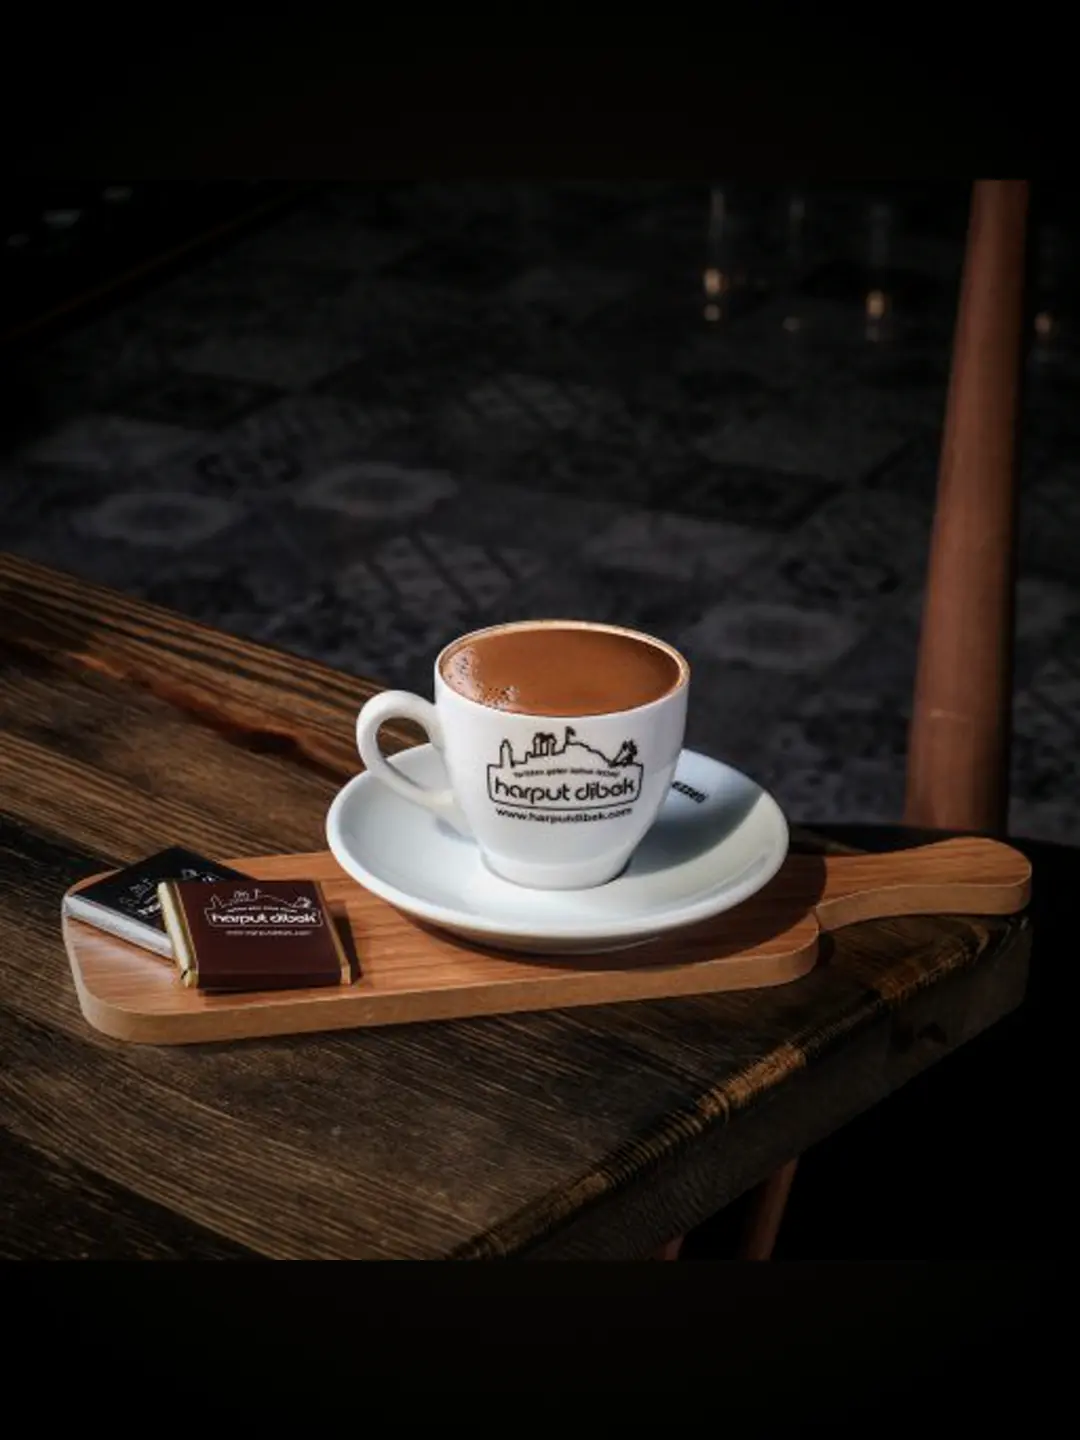
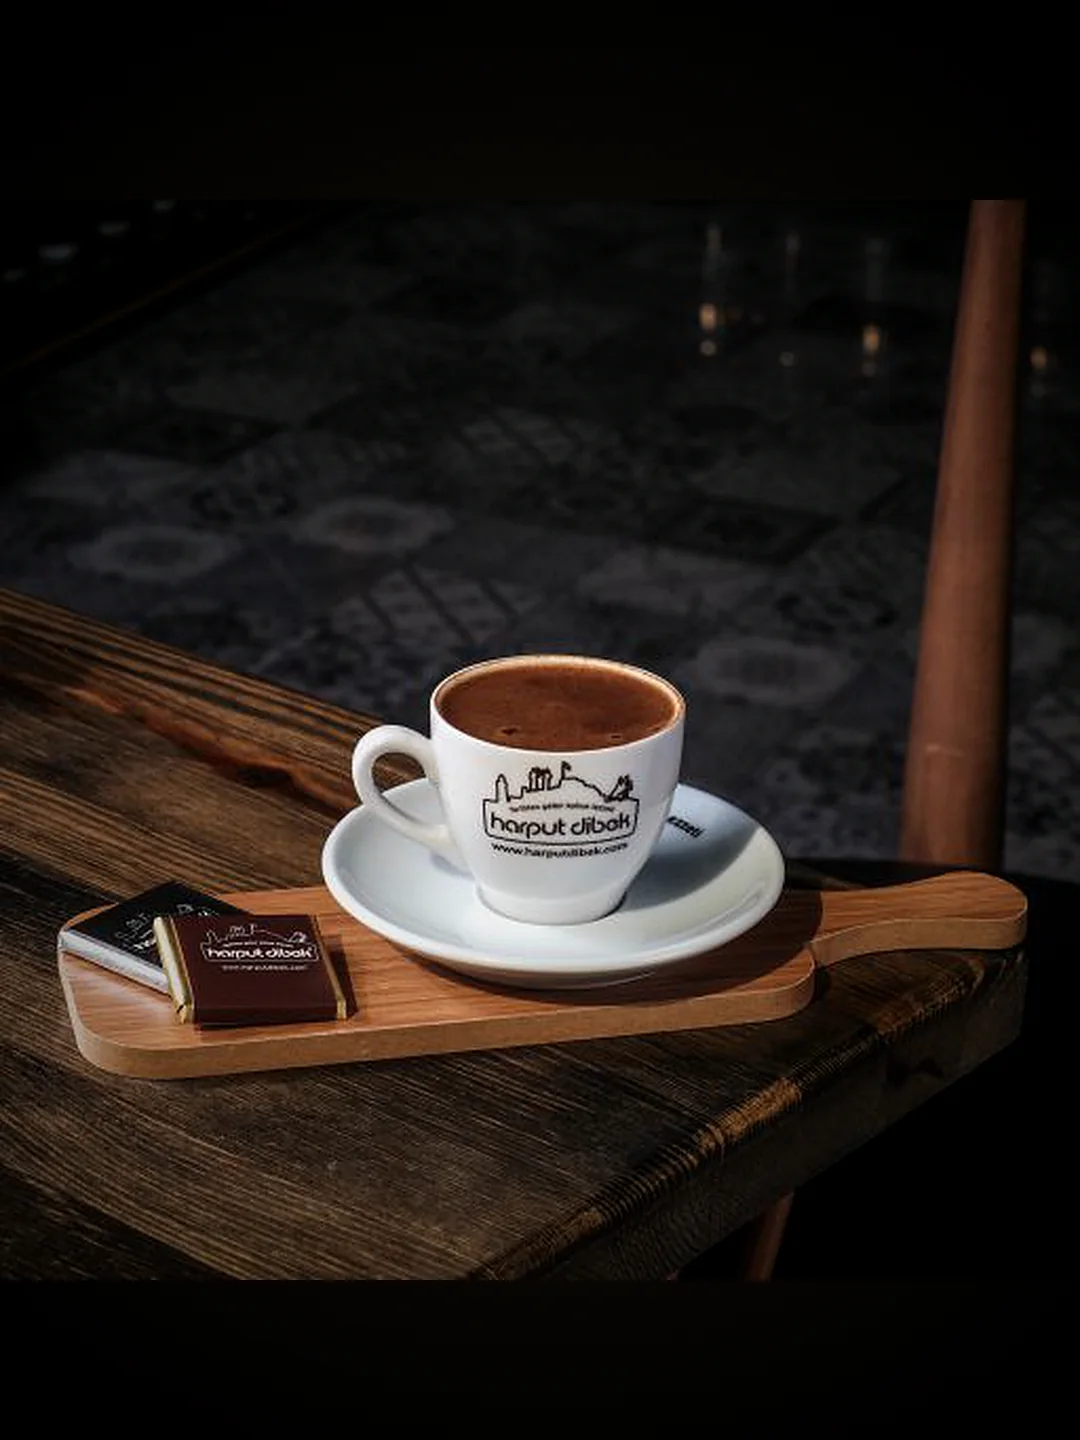
Gorsel kalitesi, acilis suresi ve Pages yayini
Gorseller:
- hero ve panel-3 artik markanin kendi fotograflarindan kompoze
  (lanczos + netlestirme); onceki hero 1024x683'ten 2x buyutulmustu
- panel-1/panel-2 ayni kaynaklardan q=58 yerine q=80/72 ile yeniden
  kodlandi; bulanikligin sebebi cozunurluk degil asiri sikistirmaydi
- galeri 800x800 yerine kaynak cozunurlugunde (512) uretiliyor

Acilis:
- sure 1120ms -> 2200ms (cok hizli geciyordu)
- brand.intro.replayEveryLoad ile her yuklemede oynuyor

Yayin:
- GitHub Pages is akisi (test + derleme + SPA geri donusu)
- router artik taban yola duyarli (import.meta.env.BASE_URL)

diff --git a/ucuncu-fincan/src/components/Intro.tsx b/ucuncu-fincan/src/components/Intro.tsx
@@ -1,24 +1,34 @@
 // Açılış perdesi: koyu zemine yukarıdan kahve dökülür, akıntı ekranı basar
 // ve perde kalkarak siteyi açar.
 //
-// Toplam süre 1120 ms (kabul kriteri: 1,2 sn'yi geçmemeli).
-// Tüm hareketler yalnızca transform ve opacity ile yapılır.
+// Toplam süre 2200 ms. Tüm hareketler yalnızca transform ve opacity ile yapılır.
+//
+// Not: ilk sürümde açılış 1,2 sn ile sınırlıydı ve oturumda bir kez oynuyordu.
+// Satış demosunda çok hızlı geçtiği ve her açılışta görünmesi istendiği için
+// süre uzatıldı, tekrar davranışı brand.intro.replayEveryLoad ile ayarlanıyor.
 
 import { useEffect, useState } from 'react';
 import { brand } from '../config/brand';
 import { usePrefersReducedMotion } from '../lib/motion';
 
 const INTRO_SEEN_KEY = 'cafe.introSeen';
-const INTRO_DURATION_MS = 1120;
+
+/**
+ * Perdenin ekranda kalma süresi.
+ * DİKKAT: bu değer src/index.css'teki "AÇILIŞ — DÖKÜLEN KAHVE PERDESİ"
+ * bloğundaki animasyon zamanlamasının toplamıyla aynı olmalı.
+ * Şu an: akıntı 1000ms + basma 500ms + perde 400ms ≈ 2200ms.
+ */
+const INTRO_DURATION_MS = 2200;
 
 /** Akıntının çevresine saçılan damlacıklar: [sol%, üst%, çap(px), gecikme(ms)] */
 const DROPLETS: [number, number, number, number][] = [
-  [38, 34, 10, 240],
-  [63, 30, 7, 300],
-  [33, 52, 6, 340],
-  [68, 56, 9, 280],
-  [42, 66, 5, 380],
-  [59, 70, 7, 420],
+  [38, 34, 10, 520],
+  [63, 30, 7, 640],
+  [33, 52, 6, 760],
+  [68, 56, 9, 700],
+  [42, 66, 5, 880],
+  [59, 70, 7, 960],
 ];
 
 /** sessionStorage kapalıysa (özel mod) uygulama çökmemeli. */
@@ -40,11 +50,15 @@ function markIntroSeen(): void {
 
 /**
  * Açılış perdesinin gösterilip gösterilmeyeceğine karar verir.
- * Aynı oturumda ikinci kez ve hareket azaltma açıkken hiç gösterilmez.
+ * Hareket azaltma açıkken hiç gösterilmez.
+ * `brand.intro.replayEveryLoad` false ise oturumda yalnızca bir kez oynar.
  */
 export function useIntro(): { showIntro: boolean; dismissIntro: () => void } {
   const prefersReduced = usePrefersReducedMotion();
-  const [showIntro, setShowIntro] = useState(() => !hasSeenIntro());
+  // Satış demosunda açılış her yüklemede görünsün diye yapılandırılabilir.
+  const [showIntro, setShowIntro] = useState<boolean>(
+    () => brand.intro.replayEveryLoad || !hasSeenIntro(),
+  );
 
   useEffect(() => {
     if (prefersReduced && showIntro) {

diff --git a/ucuncu-fincan/src/index.css b/ucuncu-fincan/src/index.css
@@ -194,8 +194,7 @@ img {
 }
 
 /* ==========================================================================
-   AÇILIŞ PERDESİ
-   Toplam 1000 ms — kabul kriterindeki 1,2 sn sınırının altında.
+   AÇILIŞ PERDESİ — ortak kare adımları
    ========================================================================== */
 @keyframes intro-name-in {
   from {
@@ -218,7 +217,7 @@ img {
 /* ==========================================================================
    AÇILIŞ — DÖKÜLEN KAHVE PERDESİ
    Sıra: akıntı yukarıdan aşağı iner → ekranı basar → perde kalkar.
-   Toplam 1120 ms; hepsi transform/opacity ile.
+   Toplam 2200 ms; hepsi transform/opacity ile.
    ========================================================================== */
 
 /* Akıntı yukarıdan aşağı uzar. */
@@ -255,15 +254,22 @@ img {
   }
 }
 
+/*
+  Zamanlama (toplam ~2200 ms — Intro.tsx içindeki INTRO_DURATION_MS ile eşleşmeli):
+    200 →1200  akıntı iner
+   1150→1450  logo ve ad söner
+   1300→1800  akıntı ekranı basar
+   1800→2200  perde kalkar
+*/
 .pour-stream {
   transform-origin: top center;
   animation:
-    pour-down 420ms cubic-bezier(0.55, 0, 0.55, 1) 80ms both,
-    pour-flood 300ms cubic-bezier(0.6, 0, 0.9, 0.7) 520ms both;
+    pour-down 1000ms cubic-bezier(0.45, 0, 0.55, 1) 200ms both,
+    pour-flood 500ms cubic-bezier(0.6, 0, 0.9, 0.7) 1300ms both;
 }
 
 .intro-droplet {
-  animation: droplet-in 320ms cubic-bezier(0.16, 1, 0.3, 1) both;
+  animation: droplet-in 420ms cubic-bezier(0.16, 1, 0.3, 1) both;
 }
 
 /*
@@ -278,20 +284,20 @@ img {
 }
 
 .intro-content {
-  animation: intro-content-out 220ms ease-in 470ms both;
+  animation: intro-content-out 300ms ease-in 1150ms both;
 }
 
 /* Perde, akıntı ekranı bastıktan sonra kalkar. */
 .intro-curtain {
-  animation: intro-curtain-out 300ms ease-in 820ms forwards;
+  animation: intro-curtain-out 400ms ease-in 1800ms forwards;
 }
 
 .intro-name {
-  animation: intro-name-in 520ms cubic-bezier(0.16, 1, 0.3, 1) both;
+  animation: intro-name-in 640ms cubic-bezier(0.16, 1, 0.3, 1) both;
 }
 
 .intro-tagline {
-  animation: intro-name-in 460ms cubic-bezier(0.16, 1, 0.3, 1) 180ms both;
+  animation: intro-name-in 560ms cubic-bezier(0.16, 1, 0.3, 1) 260ms both;
 }
 
 /* ==========================================================================

diff --git a/ucuncu-fincan/src/lib/router.tsx b/ucuncu-fincan/src/lib/router.tsx
@@ -20,11 +20,28 @@ function subscribe(listener: () => void): () => void {
   };
 }
 
+/**
+ * Sitenin sunulduğu taban yol. Kökte "/", GitHub Pages gibi alt dizinde
+ * "/depo-adi/" olur. Vite derleme sırasında doldurur.
+ */
+const BASE = import.meta.env.BASE_URL.replace(/\/+$/, '');
+
+/** Taban yolu çıkarıp uygulama içi yolu verir. */
+function stripBase(pathname: string): string {
+  if (BASE && pathname.startsWith(BASE)) return pathname.slice(BASE.length) || '/';
+  return pathname;
+}
+
 function getPathname(): string {
   if (typeof window === 'undefined') return '/';
   // Sondaki eğik çizgiyi at, böylece "/admin" ve "/admin/" aynı rotadır.
-  const path = window.location.pathname.replace(/\/+$/, '');
+  const path = stripBase(window.location.pathname).replace(/\/+$/, '');
   return path === '' ? '/' : path;
+}
+
+/** Uygulama içi yolu tarayıcıya verilecek tam yola çevirir. */
+export function href(to: string): string {
+  return `${BASE}${to}`.replace(/\/{2,}/g, '/') || '/';
 }
 
 /** Geçerli yolu döndürür ve değiştiğinde bileşeni yeniden render eder. */
@@ -35,7 +52,7 @@ export function useRoute(): string {
 /** Sayfa yenilemeden başka bir yola gider. */
 export function navigate(to: string): void {
   if (getPathname() === to) return;
-  window.history.pushState({}, '', to);
+  window.history.pushState({}, '', href(to));
   notify();
   window.scrollTo(0, 0);
 }
@@ -58,7 +75,7 @@ export function Link({ to, children, className }: LinkProps) {
   );
 
   return (
-    <a href={to} onClick={handleClick} className={className}>
+    <a href={href(to)} onClick={handleClick} className={className}>
       {children}
     </a>
   );

diff --git a/ucuncu-fincan/src/config/brand.ts b/ucuncu-fincan/src/config/brand.ts
@@ -39,7 +39,7 @@ export const brand = {
   },
 
   /** Yayınlanan adres. QR kodu bu adresi kodlar. */
-  siteUrl: 'https://harput-dibek-demo.vercel.app',
+  siteUrl: 'https://omernarcicegi.github.io/harput-dibek-demo/',
 
   // --- Renk paleti ---------------------------------------------------------
   // İki tema da burada tanımlı. Değerler derleme sırasında CSS değişkenlerine
@@ -99,6 +99,11 @@ export const brand = {
   intro: {
     curtainBg: '#1A120C',
     curtainInk: '#FFF3D6',
+    /**
+     * true  → açılış her sayfa yüklemesinde oynar (satış demosu için).
+     * false → oturumda yalnızca bir kez oynar (sessionStorage ile).
+     */
+    replayEveryLoad: true,
   },
 
   // --- Hero ----------------------------------------------------------------

diff --git a/ucuncu-fincan/src/App.tsx b/ucuncu-fincan/src/App.tsx
@@ -1,5 +1,5 @@
 import { Suspense, lazy } from 'react';
-import { useRoute } from './lib/router';
+import { Link, useRoute } from './lib/router';
 import CustomerPage from './pages/CustomerPage';
 
 // Admin ve QR sayfaları ayrı parçalara bölünür: QR'dan gelen müşteri
@@ -11,12 +11,12 @@ function NotFound() {
   return (
     <div className="flex min-h-[100dvh] flex-col items-center justify-center gap-5 px-6 text-center">
       <h1 className="text-5xl text-ink">Sayfa bulunamadı</h1>
-      <a
-        href="/"
+      <Link
+        to="/"
         className="press inline-flex min-h-12 items-center rounded-full bg-accent px-6 font-semibold text-on-accent"
       >
         Ana sayfaya dön
-      </a>
+      </Link>
     </div>
   );
 }

diff --git a/ucuncu-fincan/src/sections/AboutSection.tsx b/ucuncu-fincan/src/sections/AboutSection.tsx
@@ -20,8 +20,8 @@ export function AboutSection() {
             <img
               src={photo.image}
               alt={photo.alt}
-              width={800}
-              height={800}
+              width={512}
+              height={512}
               loading="lazy"
               decoding="async"
               className="aspect-square w-full rounded-2xl object-cover shadow-sm"

diff --git a/docs/OTOMATIK-YAYIN.md b/docs/OTOMATIK-YAYIN.md
@@ -1,0 +1,20 @@
+# Otomatik yayın (isteğe bağlı)
+
+Şu an yayın elle yapılıyor (`npm run deploy`). Her `git push` sonrası
+otomatik yayınlamak istersen:
+
+1. GitHub token'ına workflow yetkisi ver:
+
+   ```bash
+   gh auth refresh -s workflow
+   ```
+
+2. İş akışını yerine koy ve gönder:
+
+   ```bash
+   mkdir -p .github/workflows
+   cp docs/github-pages-workflow.yml .github/workflows/deploy.yml
+   git add .github && git commit -m "CI: Pages yayini" && git push
+   ```
+
+3. GitHub'da **Settings → Pages → Source** ayarını `GitHub Actions` yap.
